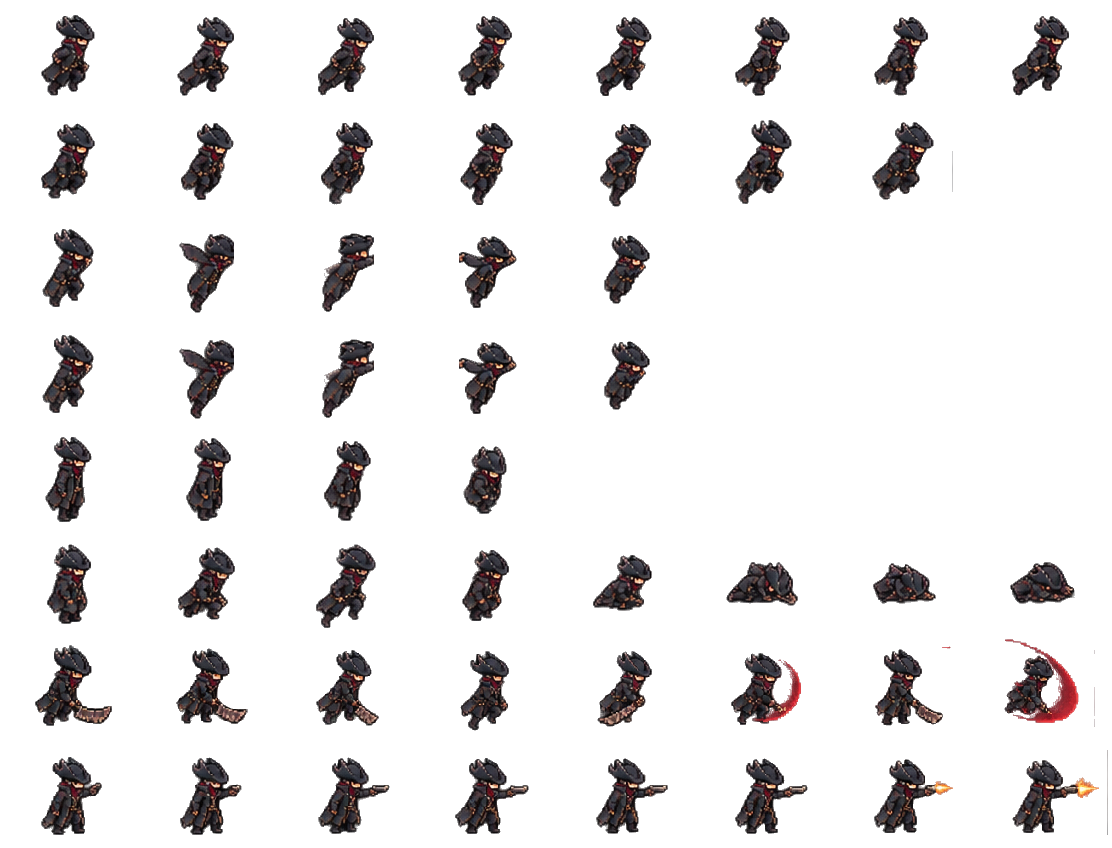
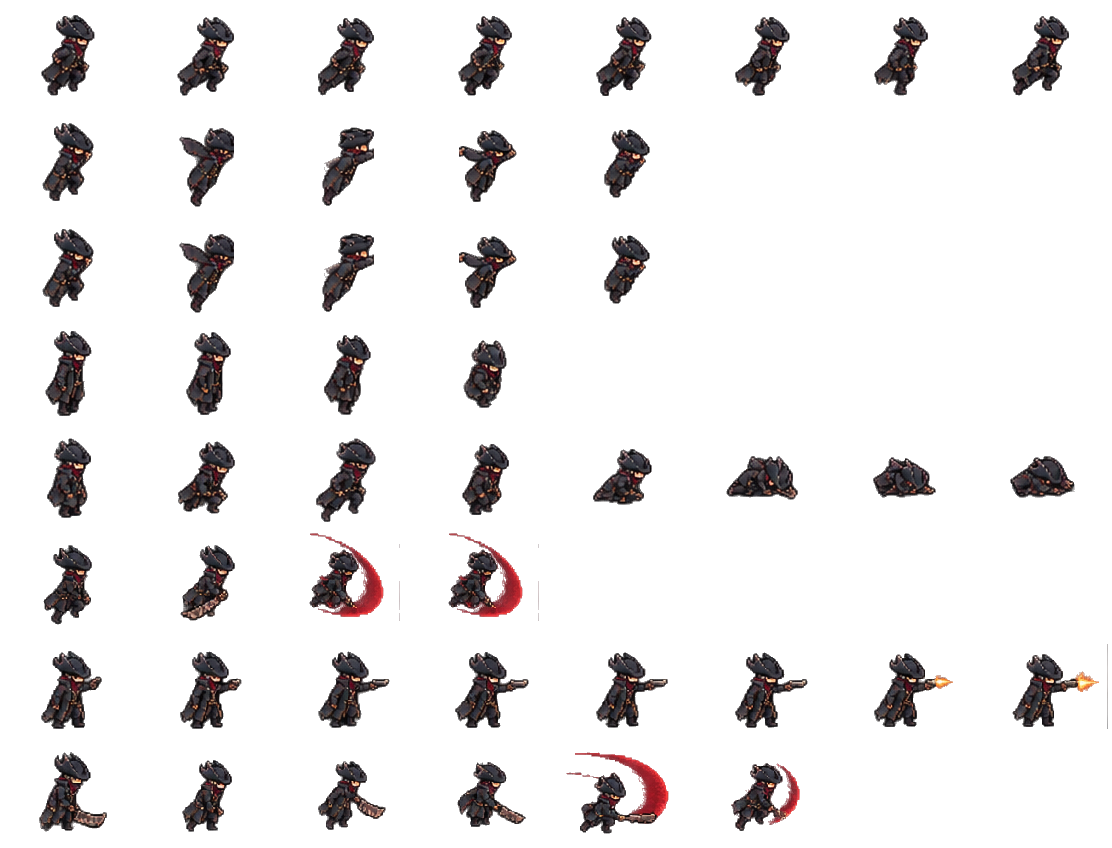
Hunter: one cut per swing (the row cut twice and restarted mid-way), a heavier cleaver (more reach, rasp, jolt, red cut, blood, longer hit-stop), the visceral lunging 5 tiles with the extended cut, no ugly jump at take-off

diff --git a/src/client/render/game_screen.cpp b/src/client/render/game_screen.cpp
@@ -137,9 +137,10 @@ void GameScreen::update(GameState &state, const std::map<int, PlayerState> &play
     updateSpeedLines(world_dt);
     particles.update(world_dt);
 
+    // Shots first: a cleaver kill or a visceral comes on the same tick as the cut itself
+    shots.handle(state);
     for (const CollisionEffect &effect : state.takeEffects())
         addEffect(effect, me);
-    shots.handle(state);
     ultimates.handle(state);
 }
 
@@ -327,13 +328,16 @@ void GameScreen::addEffect(const CollisionEffect &effect, int me)
         last_drone[effect.player] = tile_center;
         // Mikasa's blade or the Hunter's cleaver bites: a hard jolt and white sparks; any other kill, a light one
         Weapon weapon = weaponOf(run.characterOf(me));
-        bool cut = weapon == Weapon::Blade || (weapon == Weapon::Cleaver && !run.player_anims[me].pistol);
-        if (effect.player == me && cut) {
-            // Felt at the drone, not over the whole screen: she cuts often, the run must keep its rhythm
-            hit_stop = HIT_STOP;
-            cuts.push_back({tile_center, sf::Clock()});
-            run.shakeAtLeast(0.15f, 16);
+        bool cleaver = weapon == Weapon::Cleaver && run.player_anims[me].strike != PlayerAnim::Strike::Shot;
+        if (effect.player == me && (weapon == Weapon::Blade || cleaver)) {
+            // Felt at the drone, not over the whole screen: she cuts often, the run must keep its rhythm.
+            // The Hunter's saw bites harder, and bleeds.
+            hit_stop = cleaver ? HIT_STOP * 2 : HIT_STOP;
+            cuts.push_back({tile_center, sf::Clock(), cleaver ? NEON_RED : sf::Color::White});
+            run.shakeAtLeast(0.15f, cleaver ? 22 : 16);
             particles.emit(tile_center, 16, sf::Color::White, 10, 0.25f, 0);
+            if (cleaver)
+                particles.emit(tile_center, 24, sf::Color(170, 0, 30), 8, 0.5f, 14);
         } else if (weaponOf(run.characterOf(effect.player)) == Weapon::Hack && run.display_positions.count(effect.player)) {
             // Lucy's hack lands: a bolt from her hand (the bounce brought its own), the drone glitching apart in purple
             if (!bounced.erase(effect.player))
@@ -353,10 +357,13 @@ void GameScreen::addEffect(const CollisionEffect &effect, int me)
         run.shakeAtLeast(0.2f);
         particles.emit(tile_center + sf::Vector2f(0, -3), 30, QUICKSILVER, 7, 0.5f, 0);
     } else if (effect.type == VISCERAL) {
-        // ... and the cut tears it open
+        // ... and the cut tears it open: his extended cut, the world freezing on it, the screen bleeding
+        run.player_anims[effect.player].strike = PlayerAnim::Strike::Visceral;
+        run.attack_clocks[effect.player].restart();
         if (effect.player == me) {
             react(Mood::Kill);
-            hit_stop = HIT_STOP * 3;
+            hit_stop = HIT_STOP * 5;
+            run.flashScreen(NEON_RED, 0.3f);
         }
         audio.play(Audio::Sfx::Visceral);
         run.shakeAtLeast(0.4f, 20);
@@ -440,9 +447,10 @@ void GameScreen::drawCuts()
         slash.setOrigin(slash.getSize() / 2.f);
         slash.setPosition(run.toScreen(cut.pos));
         slash.setRotation(sf::degrees(-30));
-        slash.setFillColor(withAlpha(sf::Color::White, static_cast<uint8_t>(255 * (1 - t))));
+        slash.setFillColor(withAlpha(cut.color, static_cast<uint8_t>(255 * (1 - t))));
         canvas.draw(slash, sf::BlendAdd);
-        canvas.halo(run.toScreen(cut.pos), tile_size * 0.6f * (1 - t), withAlpha(NEON_CYAN, static_cast<uint8_t>(120 * (1 - t))));
+        sf::Color glow = cut.color == sf::Color::White ? NEON_CYAN : cut.color;
+        canvas.halo(run.toScreen(cut.pos), tile_size * 0.6f * (1 - t), withAlpha(glow, static_cast<uint8_t>(120 * (1 - t))));
     }
 }
 

diff --git a/tools/slice_sheets.py b/tools/slice_sheets.py
@@ -107,19 +107,21 @@ CHARACTERS = {
     # target.png: the glitch ring marking what her hack will hit
     }, {"effects": False, "erase": [(18, 358, 250, 382)], "crops": {"target.png": (24, 880, 132, 990)}}),
     # Titans charge at the player; Eren's titan is also the transformation power-up
-    # The Hunter's sheet is a platformer's: he takes off on its jump, flies gliding, falls without the
-    # landing; his mist is the game's exhaust particles (players.cpp). "shoot": his pistol, the attack
-    # key held then released.
+    # The Hunter's sheet is a platformer's: no take-off (its jump looked wrong), he flies gliding, falls
+    # without the landing; his mist is the game's exhaust particles (players.cpp). "shoot": his pistol,
+    # the attack key held then released; "visceral": the extended cut, tearing a staggered titan open.
     "hunter": ("sources/hunter.png", (75, 95, 165, 185), {
         "run":     animation((750, 55, 1295, 150), 12, ground=True),
-        "takeoff": animation((250, 200, 740, 302), 16, mode="once"),
         "rise":    animation((995, 845, 1295, 955), 10, cuts=("seams", [1030, 1086, 1142, 1194, 1247])),
         "hover":   animation((995, 845, 1295, 955), 10, cuts=("seams", [1030, 1086, 1142, 1194, 1247])),
         "fall":    animation((750, 200, 1100, 302), 10, frames=[0, 1, 2, 3]),
         "death":   animation((745, 688, 1295, 790), 10, mode="once"),
-        # Both drawn bigger than the rest: his hat is 40 and 37 px wide there, 34 when he runs
-        "attack":  animation((15, 365, 740, 480), 16, mode="once", effects_ahead=True, scale=34 / 40),
+        # Drawn bigger than the rest: his hat is 40 and 37 px wide there, 34 when he runs. The row
+        # cuts twice: only the wind-up and the big arc, shorter than the cooldown so a cut never restarts
+        "attack":  animation((15, 365, 740, 480), 16, mode="once", effects_ahead=True, scale=34 / 40,
+                             frames=[3, 4, 7, 7]),
         "shoot":   animation((15, 535, 715, 628), 16, mode="once", effects_ahead=True, scale=34 / 37),
+        "visceral": animation((750, 365, 1295, 480), 14, mode="once", effects_ahead=True, scale=34 / 40),
     }),
     "titan_female": ("sources/titans.png", None, {
         "run": animation((140, 350, 1536, 520), 14, ground=True, cuts=TITAN_CUTS),

diff --git a/src/common/weapons.hpp b/src/common/weapons.hpp
@@ -53,8 +53,10 @@ constexpr float RAM_RECHARGE = 3.5f;    // seconds to get one charge back
 // fires a quicksilver bullet. Only cleaver kills load bullets, up to QUICKSILVER_MAX.
 constexpr float PISTOL_HOLD = 0.3f;
 constexpr int QUICKSILVER_MAX = 3;  // sent in 2 bits: 3 at most
-// A bullet staggers a titan for STAGGER_TIME: it stops, and a cleaver cut takes it down (a visceral)
+// A bullet staggers a titan for STAGGER_TIME: it stops, and a cleaver cut takes it down (a visceral),
+// lunging up to VISCERAL_REACH tiles: closing on it at run speed, the cleaver's own reach left no time
 constexpr float STAGGER_TIME = 1.5f;
+constexpr float VISCERAL_REACH = 5;
 constexpr int VISCERAL_BONUS = 20;  // on top of the titan's bounty
 // Fired while a sniper's sight is frozen within PARRY_REACH tiles of his line, a bullet takes the sniper out.
 // The key can be held while the sight tracks him, to let go the moment it freezes.
@@ -83,7 +85,7 @@ inline WeaponStats statsOf(Weapon weapon)
         case Weapon::Spear:
             return {0.45f, 28, 0, 0.6f};
         case Weapon::Cleaver:
-            return {0.3f, 0, 1.8f, 0};
+            return {0.3f, 0, 2.2f, 0};
         case Weapon::Pistol:
             return {0.3f, 34, 0, 0.5f};
     }

diff --git a/src/client/render/shots.cpp b/src/client/render/shots.cpp
@@ -23,13 +23,19 @@ void Shots::handle(GameState &state)
         sf::Clock &attack = run.attack_clocks[shot.player];
         if (shot.weapon != Weapon::Minigun || attack.getElapsedTime().asSeconds() > 0.3f)
             attack.restart();
-        run.player_anims[shot.player].pistol = shot.weapon == Weapon::Pistol;
+        run.player_anims[shot.player].strike = shot.weapon == Weapon::Pistol ? PlayerAnim::Strike::Shot : PlayerAnim::Strike::Cut;
 
         switch (shot.weapon) {
             case Weapon::Blade:
-            case Weapon::Cleaver:
                 audio.play(Audio::Sfx::Slash);
                 particles.emit(muzzle + sf::Vector2f(1, 0), 10, sf::Color::White, 6, 0.25f, 0);
+                break;
+            case Weapon::Cleaver:
+                // A heavy serrated swing: felt even when it hits nothing, red sparks along the arc
+                if (shot.player == state.getMyPlayerNumber())
+                    run.shakeAtLeast(0.08f, 6);
+                audio.play(Audio::Sfx::Cleaver);
+                particles.emit(muzzle + sf::Vector2f(1.2f, -0.3f), 14, NEON_RED, 7, 0.25f, 0, {4, 2});
                 break;
             case Weapon::Pistol:
                 // A heavy blunderbuss crack, felt by the shooter

diff --git a/src/client/audio.cpp b/src/client/audio.cpp
@@ -210,7 +210,8 @@ void Audio::synthesize()
     // Mikasa's thunder spears: a sharp crack, then the rumble
     buffers[Sfx::Thunder] = toBuffer(concat(burst(0.08f, 0.6f, 0.95f), mix(burst(0.6f, 0.35f, 0.1f),
                                                                              tone(Wave::Saw, 140, 45, 0.6f, 0.2f))));
-    // The Hunter's pistol: a deep crack; his visceral, a wet tearing thud
+    // The Hunter's cleaver: a low serrated rasp; his pistol, a deep crack; his visceral, a wet tearing thud
+    buffers[Sfx::Cleaver] = toBuffer(mix(burst(0.18f, 0.45f, 0.35f), tone(Wave::Saw, 220, 70, 0.16f, 0.22f)));
     buffers[Sfx::Pistol] = toBuffer(mix(burst(0.18f, 0.55f, 0.5f), tone(Wave::Square, 500, 90, 0.12f, 0.2f)));
     buffers[Sfx::Visceral] = toBuffer(mix(burst(0.4f, 0.5f, 0.15f), tone(Wave::Sine, 110, 35, 0.35f, 0.5f)));
     // His Moonlight Blade: a cold shimmer swelling into a hum

diff --git a/src/client/render/players.cpp b/src/client/render/players.cpp
@@ -76,8 +76,9 @@ Players::AnimationFrame Players::pickAnimation(int player_num, const PlayerState
     auto attack = run.attack_clocks.find(player_num);
     float air_time = run.player_anims[player_num].air_clock.getElapsedTime().asSeconds();
     float time = canvas.time();
-    bool pistol = run.player_anims[player_num].pistol && character.shoot.frames > 0;
-    const Animation &strike = pistol ? character.shoot : character.attack;
+    PlayerAnim::Strike last = run.player_anims[player_num].strike;
+    const Animation &special = last == PlayerAnim::Strike::Shot ? character.shoot : character.visceral;
+    const Animation &strike = last != PlayerAnim::Strike::Cut && special.frames > 0 ? special : character.attack;
 
     if (death != run.death_clocks.end() && character.death.frames > 0)
         return {&character.death, death->second.getElapsedTime().asSeconds()};

diff --git a/src/client/audio.hpp b/src/client/audio.hpp
@@ -13,7 +13,7 @@ public:
     enum class Sfx {
         Coin, Zap, Beep, Go, GameOver, MenuMove, MenuConfirm,       // the run and the menus
         Gun, Minigun, Rocket, Slash, Hack, Thunder, Explosion,      // CYBERPSYCHO attacks and drones
-        Pistol, Visceral,                                           // the Hunter
+        Cleaver, Pistol, Visceral,                                  // the Hunter
         Stomp, Roar, Steam,                                         // titans and the Attack Titan
         Shield, ShieldBreak, Sandevistan, Berserk,                  // power-ups
         FireWave, Nuke, Breach, Charge, Moonlight, UltimateReady,   // ultimates

diff --git a/src/client/characters.cpp b/src/client/characters.cpp
@@ -33,7 +33,7 @@ bool Character::load(const std::string &dir)
     std::istringstream meta(text);
     std::map<std::string, Animation *> animations = {
         {"run", &run}, {"takeoff", &takeoff}, {"rise", &rise}, {"hover", &hover}, {"fall", &fall},
-        {"death", &death}, {"attack", &attack}, {"shoot", &shoot}, {"smoke", &smoke}, {"emerge", &emerge}
+        {"death", &death}, {"attack", &attack}, {"shoot", &shoot}, {"visceral", &visceral}, {"smoke", &smoke}, {"emerge", &emerge}
     };
     std::string key;
 

diff --git a/src/client/render/run.hpp b/src/client/render/run.hpp
@@ -22,7 +22,9 @@ struct PlayerAnim {
     bool berserk = false;
     sf::Clock berserk_clock;
     sf::Clock shot_clock;   // since the last shot: Jinx's sprite kicks back on each bullet
-    bool pistol = false;    // the Hunter's last attack was his pistol, not his cleaver
+    // The Hunter's last attack, for its animation: his cleaver, his pistol, or a visceral
+    enum class Strike { Cut, Shot, Visceral };
+    Strike strike = Strike::Cut;
 };
 
 struct Run {

diff --git a/src/server/combat.cpp b/src/server/combat.cpp
@@ -136,7 +136,7 @@ int Server::strike(int client_fd, const Player &player, float reach)
 // kill loads a bullet, and wins back a shield that just broke (the rally).
 void Server::cleave(int client_fd, Player &player, float reach)
 {
-    int kills = strike(client_fd, player, reach) + slashTitans(player, reach, true);
+    int kills = strike(client_fd, player, reach) + slashTitans(player, VISCERAL_REACH, true);
 
     if (kills == 0)
         return;

diff --git a/src/client/characters.hpp b/src/client/characters.hpp
@@ -34,6 +34,7 @@ struct Character {
 
     Animation run, takeoff, rise, hover, fall, death, attack;
     Animation shoot;            // the Hunter's pistol, his attack being the cleaver
+    Animation visceral;         // the Hunter tearing a staggered titan open
     Animation smoke, emerge;    // Eren's transformation only
 
     bool load(const std::string &dir);

diff --git a/src/client/render/game_screen.hpp b/src/client/render/game_screen.hpp
@@ -65,6 +65,7 @@ private:
     struct Cut {
         sf::Vector2f pos;       // in tiles
         sf::Clock age;
+        sf::Color color;        // white for Mikasa's blade, red for the Hunter's cleaver
     };
     std::vector<Cut> cuts;
     // Lucy's hack: a crackling bolt from her to the drone, and from it to the one the hack jumps to
